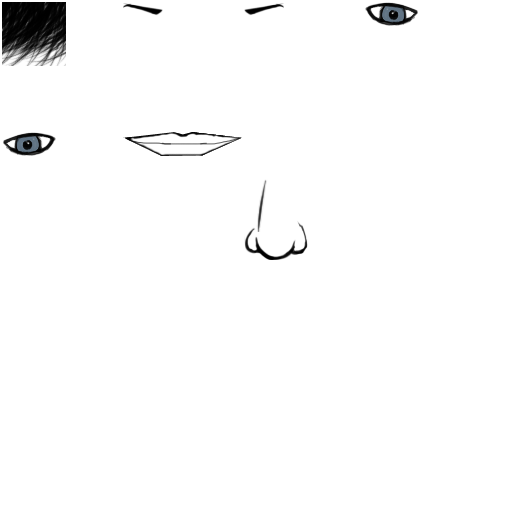
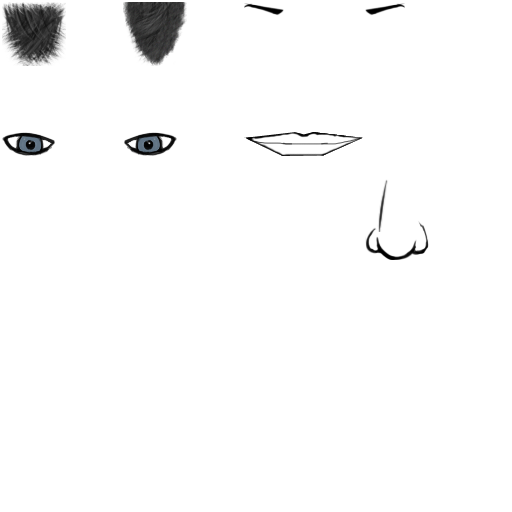
Add beard growth controls and fix bugs

diff --git a/core/src/headmade/ld34/Ld34.java b/core/src/headmade/ld34/Ld34.java
@@ -2,8 +2,10 @@ package headmade.ld34;
 
 import java.util.HashMap;
 
+import com.badlogic.gdx.Application.ApplicationType;
 import com.badlogic.gdx.Game;
 import com.badlogic.gdx.Gdx;
+import com.badlogic.gdx.Input.Buttons;
 import com.badlogic.gdx.graphics.Camera;
 import com.badlogic.gdx.graphics.Color;
 import com.badlogic.gdx.graphics.GL20;
@@ -86,13 +88,16 @@ public class Ld34 extends Game {
 	private long							chainSegmentTime;
 	private Color							colorBeard				= new Color(0x222222FF);
 	private Color							colorBeard2				= new Color(0x888888FF);
-	private Color							colorSkin				= new Color(0xBBAAAAFF);
-	private Color							colorBlush				= new Color(0xDDAAAAFF);
-	private float							selectionMoveSpeed		= 0.01f;
+	private Color							colorSkin				= new Color(0xFADACAFF);
+	private Color							colorBlush				= new Color(0xFFAA99FF);
+	private float							selectionMoveSpeed;
+	private float							growSpeed;
 	private float							rotateSpeed				= 7f;
+	private float							chainRotSpeedRad		= 0.04f;
 	private Vector2							selectionPos			= new Vector2(0, 0);
 	private Vector2							selectionPosWorld		= new Vector2(0, 0);
 	private Vector2							selectionMove			= new Vector2(selectionMoveSpeed, 0);
+	private float							chainReferenceAngle		= 0f;
 	private PolygonShape					chainShape;
 	private Polygon							beardPolygon;
 	private Vector2							beardCenter;
@@ -107,6 +112,7 @@ public class Ld34 extends Game {
 	public void create() {
 		UNIT_SCALE = 48f / new Float(Gdx.graphics.getWidth());
 		selectionMoveSpeed = 1 * UNIT_SCALE;
+		growSpeed = 4;
 		selectionMove = new Vector2(selectionMoveSpeed, 0);
 
 		batch = new SpriteBatch();
@@ -124,7 +130,7 @@ public class Ld34 extends Game {
 		textureSolid = new Texture(pix);
 
 		chainShape = new PolygonShape();
-		chainShape.setAsBox(0.5f, 0.3f);
+		chainShape.setAsBox(0.3f, 0.3f);
 		beardCenter = new Vector2();
 		beardPolygon = new Polygon();
 
@@ -200,8 +206,8 @@ public class Ld34 extends Game {
 		}
 
 		{
-			// shapeRenderer.begin(ShapeType.Filled);
-			shapeRenderer.begin(ShapeType.Line);
+			shapeRenderer.begin(ShapeType.Filled);
+			// shapeRenderer.begin(ShapeType.Line);
 			shapeRenderer.setColor(Color.RED);
 
 			final Vector2 v1 = new Vector2();
@@ -245,7 +251,6 @@ public class Ld34 extends Game {
 					polySprites.put(fix, polySprite);
 				} else {
 					polySprite.setOrigin(polygon.getOriginX(), polygon.getOriginY());
-					// polySprite.setPosition(polygon.getX(), polygon.getY());
 				}
 				fillPoly(polySprite, color);
 			}
@@ -278,8 +283,7 @@ public class Ld34 extends Game {
 
 	private void fillPoly(PolygonSprite poly, Color color) {
 		polyBatch.setColor(color);
-		// TODO fix HACK. Why -3.2f?
-		polyBatch.draw(poly.getRegion(), poly.getOriginX() - 3.2f, poly.getOriginY());
+		polyBatch.draw(poly.getRegion(), poly.getOriginX(), poly.getOriginY());
 		// textureSolid2.dispose();
 	}
 
@@ -298,6 +302,7 @@ public class Ld34 extends Game {
 		Box2DUtils.aabb(beard).getCenter(beardCenter);
 		selectionPosWorld.set(beardCenter).add(selectionPos);
 		if (currentState == STATE_POS_SELECT_X || currentState == STATE_POS_SELECT_Y) {
+			// would the next move be out of bounds?
 			if (Box2DUtils.as(beard.getFixtureList().first(), beardPolygon).contains(selectionPosWorld.cpy().add(selectionMove))) {
 				selectionPos.add(selectionMove);
 			} else {
@@ -307,10 +312,25 @@ public class Ld34 extends Game {
 		} else if (currentState == STATE_DIRECTION_SELECT) {
 			selectionMove.rotate(rotateSpeed);
 		} else if (currentState == STATE_GROWING) {
+			if (Gdx.app.getType().equals(ApplicationType.Android) || Gdx.app.getType().equals(ApplicationType.iOS)) {
+				if (Gdx.input.isTouched(0)) {
+
+				}
+			} else {
+				if (Gdx.input.isButtonPressed(Buttons.LEFT)) {
+					Gdx.app.log(TAG, "ROTATING LEFT");
+					// chainReferenceAngle = chainRotSpeedRad;
+					selectionMove.rotateRad(chainRotSpeedRad);
+				}
+				if (Gdx.input.isButtonPressed(Buttons.RIGHT)) {
+					Gdx.app.log(TAG, "ROTATING RIGHT");
+					// chainReferenceAngle = -chainRotSpeedRad;
+					selectionMove.rotateRad(-chainRotSpeedRad);
+				}
+			}
 			if (1000 < System.currentTimeMillis() - chainStartTime) {
 				incCurrentState();
 			} else if (100 < System.currentTimeMillis() - chainSegmentTime) {
-				Gdx.app.log(TAG, "Extending chain");
 				chainSegmentTime = System.currentTimeMillis();
 				currentChain.extend();
 			}
@@ -347,10 +367,13 @@ public class Ld34 extends Game {
 					fixtureDef.shape = chainShape;
 					fixtureDef.density = 0.2f;
 					fixtureDef.filter.categoryBits = 0x0100;
-					jointDef.localAnchorA.y = -Box2DUtils.height(chainShape) / 2;
-					jointDef.localAnchorB.y = Box2DUtils.height(chainShape) / 2;
+					fixtureDef.filter.maskBits = 0x0010;
+					// jointDef.localAnchorA.y = -Box2DUtils.height(chainShape) / 2;
+					// jointDef.localAnchorB.y = Box2DUtils.height(chainShape) / 2;
+					jointDef.localAnchorB.y = selectionMove.cpy().scl(growSpeed).len();
+					// jointDef.localAnchorB.y = selectionMove.cpy().len();
+					jointDef.enableLimit = true;
 					// jointDef.frequencyHz = 0;
-					// jointDef.referenceAngle = selectionMove.angleRad(new Vector2(1, 0));
 					// jointDef.lowerAngle = -0.1f;
 					// jointDef.upperAngle = 0.1f;
 				}
@@ -360,8 +383,8 @@ public class Ld34 extends Game {
 					bodyDef.position.x = selectionPosWorld.x;
 					bodyDef.position.y = selectionPosWorld.y;
 					final float angle = selectionMove.cpy().rotate(90).angleRad();
-					Gdx.app.log(TAG, "Angle " + angle);
-					bodyDef.angle = angle;
+					// bodyDef.angle = angle;// + chainReferenceAngle;
+					// Gdx.app.log(TAG, "Creating segment with bodydef angle " + bodyDef.angle);
 					final Body segment = world.createBody(bodyDef);
 					segment.setUserData(beardBox2dSprite);
 					final Fixture segFix = segment.createFixture(fixtureDef);
@@ -369,22 +392,21 @@ public class Ld34 extends Game {
 					if (index == 0) {
 						final WeldJointDef jd = new WeldJointDef();
 						jd.initialize(head, segment, selectionPosWorld);
-						// jd.referenceAngle = angle;
-						jd.frequencyHz = 0;
-						// jd.bodyA = head;
-						// jd.bodyB = segment;
-						// jd.localAnchorA.x = head.getLocalPoint(selectionPosWorld).x;
-						// jd.localAnchorA.y = head.getLocalPoint(selectionPosWorld).y;
-						// jd.localAnchorB.x = 0f;
-						// jd.localAnchorB.y = 0f;
+						jd.referenceAngle = angle;
+						// jd.frequencyHz = 0;
 						world.createJoint(jd);
 					}
-					selectionPosWorld.add(selectionMove.cpy().nor().scl(0.25f));
+					selectionPos.add(selectionMove.cpy().scl(growSpeed));
+					selectionPosWorld.add(selectionMove.cpy().scl(growSpeed));
 					return segment;
 				}
 
 				@Override
 				public Connection createConnection(Body seg1, int seg1index, Body seg2, int seg2index) {
+					jointDef.referenceAngle = chainReferenceAngle;
+					Gdx.app.log(TAG, "Reference Angle is " + jointDef.referenceAngle);
+					chainReferenceAngle = 0f;
+					// jointDef.frequencyHz = 0;
 					jointDef.bodyA = seg1;
 					jointDef.bodyB = seg2;
 					return new Connection(world.createJoint(jointDef));
@@ -417,5 +439,14 @@ public class Ld34 extends Game {
 		world.dispose();
 		pix.dispose();
 		Assets.instance.dispose();
+	}
+
+	@Override
+	public void resize(int width, int height) {
+		camFace.viewportWidth = width * UNIT_SCALE / 4f;
+		camFace.viewportHeight = height * UNIT_SCALE / 4f;
+		// camFace.position.set(width * UNIT_SCALE / 2, height * UNIT_SCALE / 2, 0);
+		camFace.update();
+		super.resize(width, height);
 	}
 }

diff --git a/core/src/headmade/ld34/MapUtils.java b/core/src/headmade/ld34/MapUtils.java
@@ -9,7 +9,6 @@ import com.badlogic.gdx.physics.box2d.BodyDef;
 import com.badlogic.gdx.physics.box2d.BodyDef.BodyType;
 import com.badlogic.gdx.physics.box2d.CircleShape;
 import com.badlogic.gdx.physics.box2d.Fixture;
-import com.badlogic.gdx.physics.box2d.joints.PulleyJointDef;
 import com.badlogic.gdx.physics.box2d.joints.WeldJointDef;
 import com.badlogic.gdx.physics.box2d.joints.WheelJointDef;
 
@@ -95,14 +94,20 @@ public class MapUtils {
 				ld34.world.createJoint(wjd);
 			}
 
-			final PulleyJointDef jd = new PulleyJointDef();
-			jd.initialize(wheel, ld34.head, ld34.ground.getWorldCenter(), ld34.ground.getWorldCenter().cpy().add(1, 0),
-					wheel.getWorldCenter().cpy().add(0.5f, 0), ld34.head.getWorldCenter(), 1f);
-			// // jd.initialize(ld34.ground, ld34.head, ld34.head.getWorldCenter(), new Vector2(0f, 1f));
-			// // jd.enableMotor = true;
-			// // jd.maxMotorForce = 70f;
-			// // jd.motorSpeed = 3f;
-			ld34.world.createJoint(jd);
+			wjd.initialize(ld34.head, ld34.ground, ld34.head.getWorldCenter());
+			wjd.referenceAngle = 10f;
+			wjd.dampingRatio = 0.5f;
+			wjd.frequencyHz = 1.5f;
+			ld34.world.createJoint(wjd);
+			// pulley Joint
+			// final PulleyJointDef jd = new PulleyJointDef();
+			// jd.initialize(wheel, ld34.head, ld34.ground.getWorldCenter(), ld34.ground.getWorldCenter().cpy().add(1, 0),
+			// wheel.getWorldCenter().cpy().add(0.5f, 0), ld34.head.getWorldCenter(), 1f);
+			// // // jd.initialize(ld34.ground, ld34.head, ld34.head.getWorldCenter(), new Vector2(0f, 1f));
+			// // // jd.enableMotor = true;
+			// // // jd.maxMotorForce = 70f;
+			// // // jd.motorSpeed = 3f;
+			// ld34.world.createJoint(jd);
 		}
 	}
 }

diff --git a/core/src/headmade/ld34/Ld34InputProcessor.java b/core/src/headmade/ld34/Ld34InputProcessor.java
@@ -55,7 +55,9 @@ public class Ld34InputProcessor implements InputProcessor {
 	public boolean touchDown(int screenX, int screenY, int pointer, int button) {
 		final Vector3 mouse = ld34.camFace.unproject(new Vector3(screenX, screenY, 0));
 		Gdx.app.log(TAG, "Mouse clicked at " + mouse);
-		ld34.incCurrentState();
+		if (ld34.getCurrentState() != ld34.STATE_GROWING) {
+			ld34.incCurrentState();
+		}
 		return true;
 	}
 
